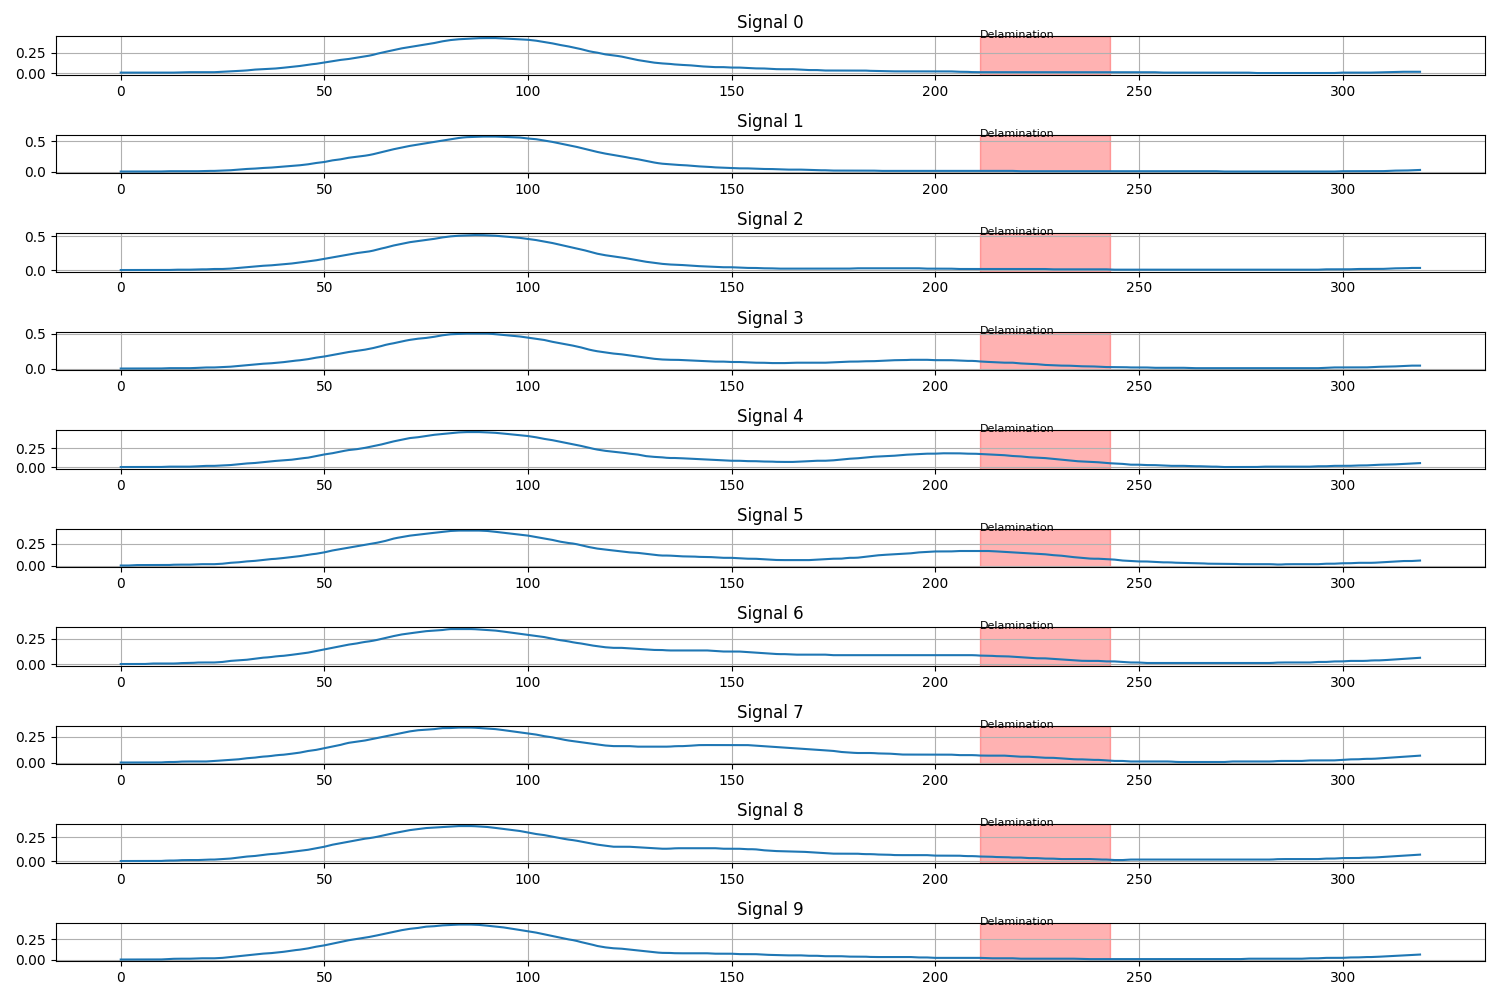
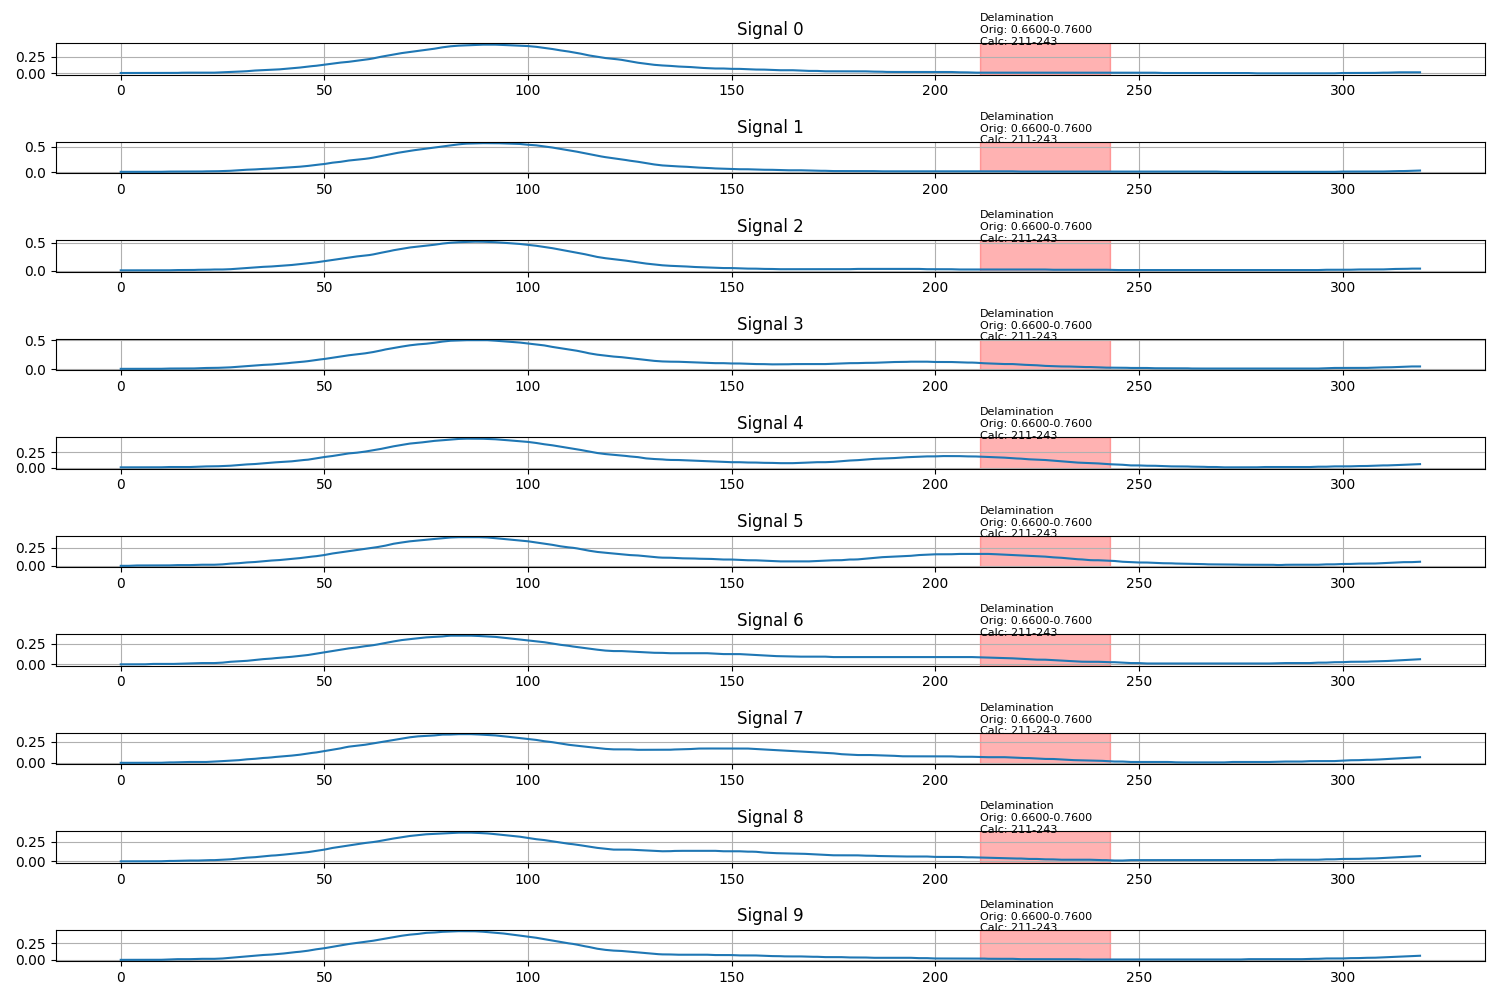
todo: fix the problem with incorrect defect position in signal

diff --git a/SignalSequenceDetection/dataset_preparation.py b/SignalSequenceDetection/dataset_preparation.py
@@ -163,25 +163,22 @@ class SignalSequencePreparation:
         for json_file in tqdm(json_files, desc="Processing JSON files", unit="file"):
             base_name = os.path.splitext(json_file)[0]
             
-            # Get sequences and annotations from JSON file
             seq, ann, blims = self.get_datafile_sequences(json_file)
             
             # Normalize annotations
             ann = self.normalize_annotations(ann, blims)
             
-            # Store sequences and annotations
             self.all_sequences[base_name] = seq
             self.all_annotations[base_name] = ann
         
-        # Create beam-based sequences
         beam_sequences = self.create_beam_sequences()
         
-        # Save annotations
         with open(os.path.join(self.output_folder, "signal_annotations.json"), "w") as f:
             json.dump(self.all_annotations, f, indent=2)
             
-        # Save sequences
-        torch.save(beam_sequences, os.path.join(self.output_folder, "signal_sequences.pt"))
+        with open(os.path.join(self.output_folder, "signal_sequences.pkl"), 'wb') as f:
+            import pickle
+            pickle.dump(beam_sequences, f)
         
         print(f"Number of signals with values only zeroes: {self.number_false_signals}")
         print(f"Created {len(beam_sequences)} signal sequences")
@@ -206,10 +203,8 @@ class SignalSequencePreparation:
                     self.number_false_signals += 1
                     continue
                 
-                # Get annotations for this scan
                 annotations = self.all_annotations[file_name].get(scan_key, [])
                 
-                # Create sequences of seq_length signals
                 num_signals = len(signals)
                 
                 if num_signals <= self.seq_length:
@@ -277,10 +272,18 @@ class SignalSequencePreparation:
             
             if scan_key in annotations:
                 for defect in annotations[scan_key]:
-                    defect_start = int(defect["bbox"][2] * len(signal))
-                    defect_end = int(defect["bbox"][3] * len(signal))
+                    # Original values from JSON file
+                    original_defect_start = defect["bbox"][2]
+                    original_defect_end = defect["bbox"][3]
+                    
+                    # Calculated values for visualization
+                    defect_start = int(original_defect_start * len(signal))
+                    defect_end = int(original_defect_end * len(signal))
+                    
                     plt.axvspan(defect_start, defect_end, alpha=0.3, color='red')
-                    plt.text(defect_start, max(signal), defect["label"], fontsize=8)
+                    plt.text(defect_start, max(signal), 
+                             f"{defect['label']}\nOrig: {original_defect_start:.4f}-{original_defect_end:.4f}\nCalc: {defect_start}-{defect_end}", 
+                             fontsize=8)
             
             plt.title(f"Signal {i}")
             plt.grid(True)
@@ -305,7 +308,10 @@ class SignalSequenceDataset(Dataset):
             sequences_file (str): Path to the sequences file
             transform (callable, optional): Optional transform to be applied on a sample
         """
-        self.sequences = torch.load(sequences_file)
+        with open(sequences_file, 'rb') as f:
+            import pickle
+            self.sequences = pickle.load(f)
+            
         self.transform = transform
         
         # Extract all unique labels
@@ -333,7 +339,7 @@ class SignalSequenceDataset(Dataset):
             # Default to 'Health' class
             target = {
                 'label': self.label_map['Health'],
-                'bbox': torch.zeros(4, dtype=torch.float32)
+                'defect_position': torch.zeros(2, dtype=torch.float32)
             }
             
             # Check if there's a defect in this signal
@@ -348,7 +354,8 @@ class SignalSequenceDataset(Dataset):
                     
                     if beam_start <= beam_position <= beam_end:
                         target['label'] = self.label_map[annot['label']]
-                        target['bbox'] = torch.tensor([0, 0, defect_start, defect_end], dtype=torch.float32)
+                        # Store defect start and end positions within the signal
+                        target['defect_position'] = torch.tensor([defect_start, defect_end], dtype=torch.float32)
                         break
             
             targets.append(target)
@@ -374,7 +381,7 @@ if __name__ == "__main__":
 
     prep.visualize_sequence(0, save_path=os.path.join(output_folder, "sequence_example.png"))
 
-    dataset = SignalSequenceDataset(os.path.join(output_folder, "signal_sequences.pt"))
+    dataset = SignalSequenceDataset(os.path.join(output_folder, "signal_sequences.pkl"))
     print(f"Dataset size: {len(dataset)}")
     print(f"Label map: {dataset.label_map}")
 

diff --git a/SignalSequenceDetection/enhanced_model.py b/SignalSequenceDetection/enhanced_model.py
@@ -614,15 +614,15 @@ class EnhancedSignalSequenceDetector(nn.Module):
                     
                     # Extract defect start and end positions within the signal
                     if target['label'] > 0:  # If it's a defect (not "Health")
-                        if torch.is_tensor(target['bbox']):
-                            if target['bbox'].numel() >= 4:
-                                # The defect positions are the last two values in bbox
-                                target_positions[b, i, 0] = target['bbox'][2]  # defect start position
-                                target_positions[b, i, 1] = target['bbox'][3]  # defect end position
+                        if torch.is_tensor(target['defect_position']):
+                            if target['defect_position'].numel() >= 2:
+                                # The defect positions are start and end positions in the signal
+                                target_positions[b, i, 0] = target['defect_position'][0]  # defect start position
+                                target_positions[b, i, 1] = target['defect_position'][1]  # defect end position
                         else:
-                            # Handle case where bbox might be a list or numpy array
-                            target_positions[b, i, 0] = target['bbox'][2]  # defect start position
-                            target_positions[b, i, 1] = target['bbox'][3]  # defect end position
+                            # Handle case where defect_position might be a list or numpy array
+                            target_positions[b, i, 0] = target['defect_position'][0]  # defect start position
+                            target_positions[b, i, 1] = target['defect_position'][1]  # defect end position
         
         # Classification loss with uncertainty weighting
         # Flatten for loss calculation

diff --git a/SignalSequenceDetection/enhanced_train.py b/SignalSequenceDetection/enhanced_train.py
@@ -323,7 +323,7 @@ def calculate_metrics(predictions, targets):
                 target_defects.append({
                     'position': t['position'] if 'position' in t else 0,
                     'class': t['label'],
-                    'defect_position': t['bbox'][2:4].cpu().numpy() if torch.is_tensor(t['bbox']) else t['bbox'][2:4]
+                    'defect_position': t['defect_position'].cpu().numpy() if torch.is_tensor(t['defect_position']) else t['defect_position']
                 })
         
         matched_targets = set()
@@ -406,7 +406,7 @@ def main(args):
     print(f"Using device: {device}")
     
     data_dir = args.data_dir
-    sequences_file = os.path.join(data_dir, "signal_sequences.pt")
+    sequences_file = os.path.join(data_dir, "signal_sequences.pkl")
     save_dir = os.path.join(data_dir, "enhanced_checkpoints", datetime.now().strftime("%Y%m%d_%H%M%S"))
     
     if not os.path.exists(save_dir):
